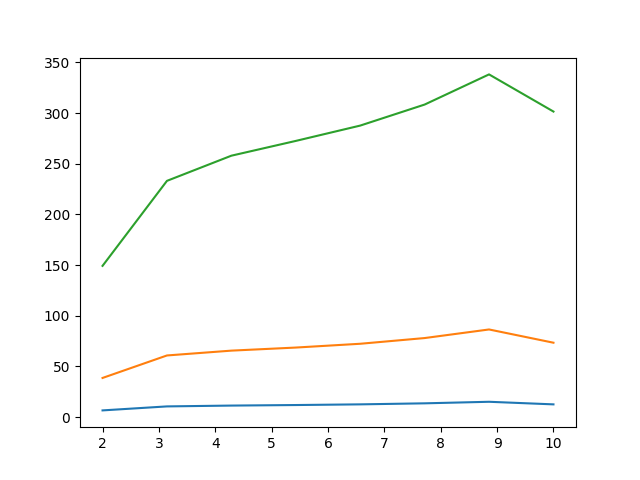
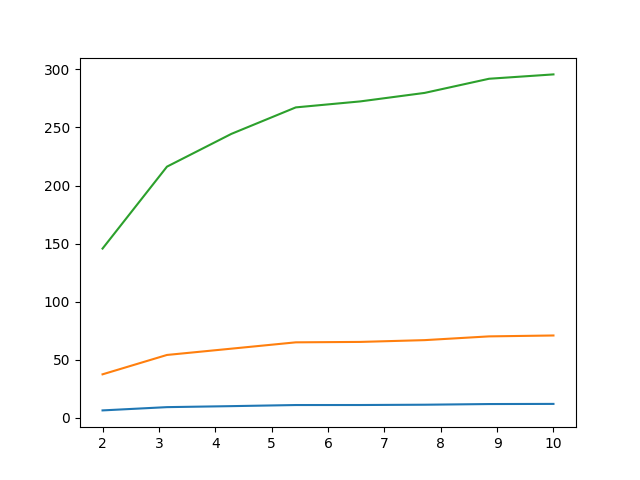
Improves code by getting rid of some for iterations

diff --git a/1d_tusl.py b/1d_tusl.py
@@ -4,7 +4,6 @@ from matplotlib import pyplot as plt
 
 w = 0.1
 b = 0.05
-n = 1000
 m = 1
 h_bar = 1
 num_well = 4
@@ -13,7 +12,7 @@ num_well = 4
 V_box = lambda x: 0*x
 
 # n well potential
-def well(x, w, n_w, b, L,V0=-3000):
+def well(x, w, n_w, b, L, V0=-3000):
 	n = len(x)
 	V_mid_ex = np.array([[V0]*int(w*n/L) + [0]*int(b*n/L)]*n_w).flatten()
 	V_mid = V_mid_ex[:-int(b*n/L)]
@@ -32,14 +31,15 @@ def well(x, w, n_w, b, L,V0=-3000):
 
 
 def analyze(n_w):
+	n = n_w*1000 + 500
 	L = (20 + n_w)*w + (n_w -1)*b
 	delta_x = L/(n+1)
 	x_vec = np.linspace(0, L, n)
 
 
 	#H = np.zeros([n, n])
-	main_diag = np.zeros(n)
-	off_diag = np.zeros(n-1)
+	main_diag = np.ones(n)
+	off_diag = np.ones(n-1)
 		
 	if n_w == 0:
 		V_vals = V_box(x_vec)
@@ -49,16 +49,10 @@ def analyze(n_w):
 		V_vals = well(x_vec, w, n_w, b, L)
 		iter_lim = n_w*3
 
-	for i in range(n):
-		# Fills main diagonal
-		#H[i][i] = ((h_bar**2)/(m*(delta_x**2))) + V(x_vec[i])
-		main_diag[i] = ((h_bar**2)/(m*(delta_x**2))) + V_vals[i]
-
-	for i in range(n-1):
-		# Fills second diagonals below and above main
-		#H[i+1][i] = H[i][i +1] = (h_bar**2)/(2*m*(delta_x**2))
-		off_diag[i] = -(h_bar**2)/(2*m*(delta_x**2))
-
+	main_diag *= ((h_bar**2)/(m*(delta_x**2)))
+	main_diag += V_vals
+	off_diag *= -(h_bar**2)/(2*m*(delta_x**2))
+	
 	energies, wave_funcs = eigh_tridiagonal(main_diag, off_diag)
 	wave_funcs = wave_funcs.T
 	return energies, wave_funcs, iter_lim, L, V_vals
